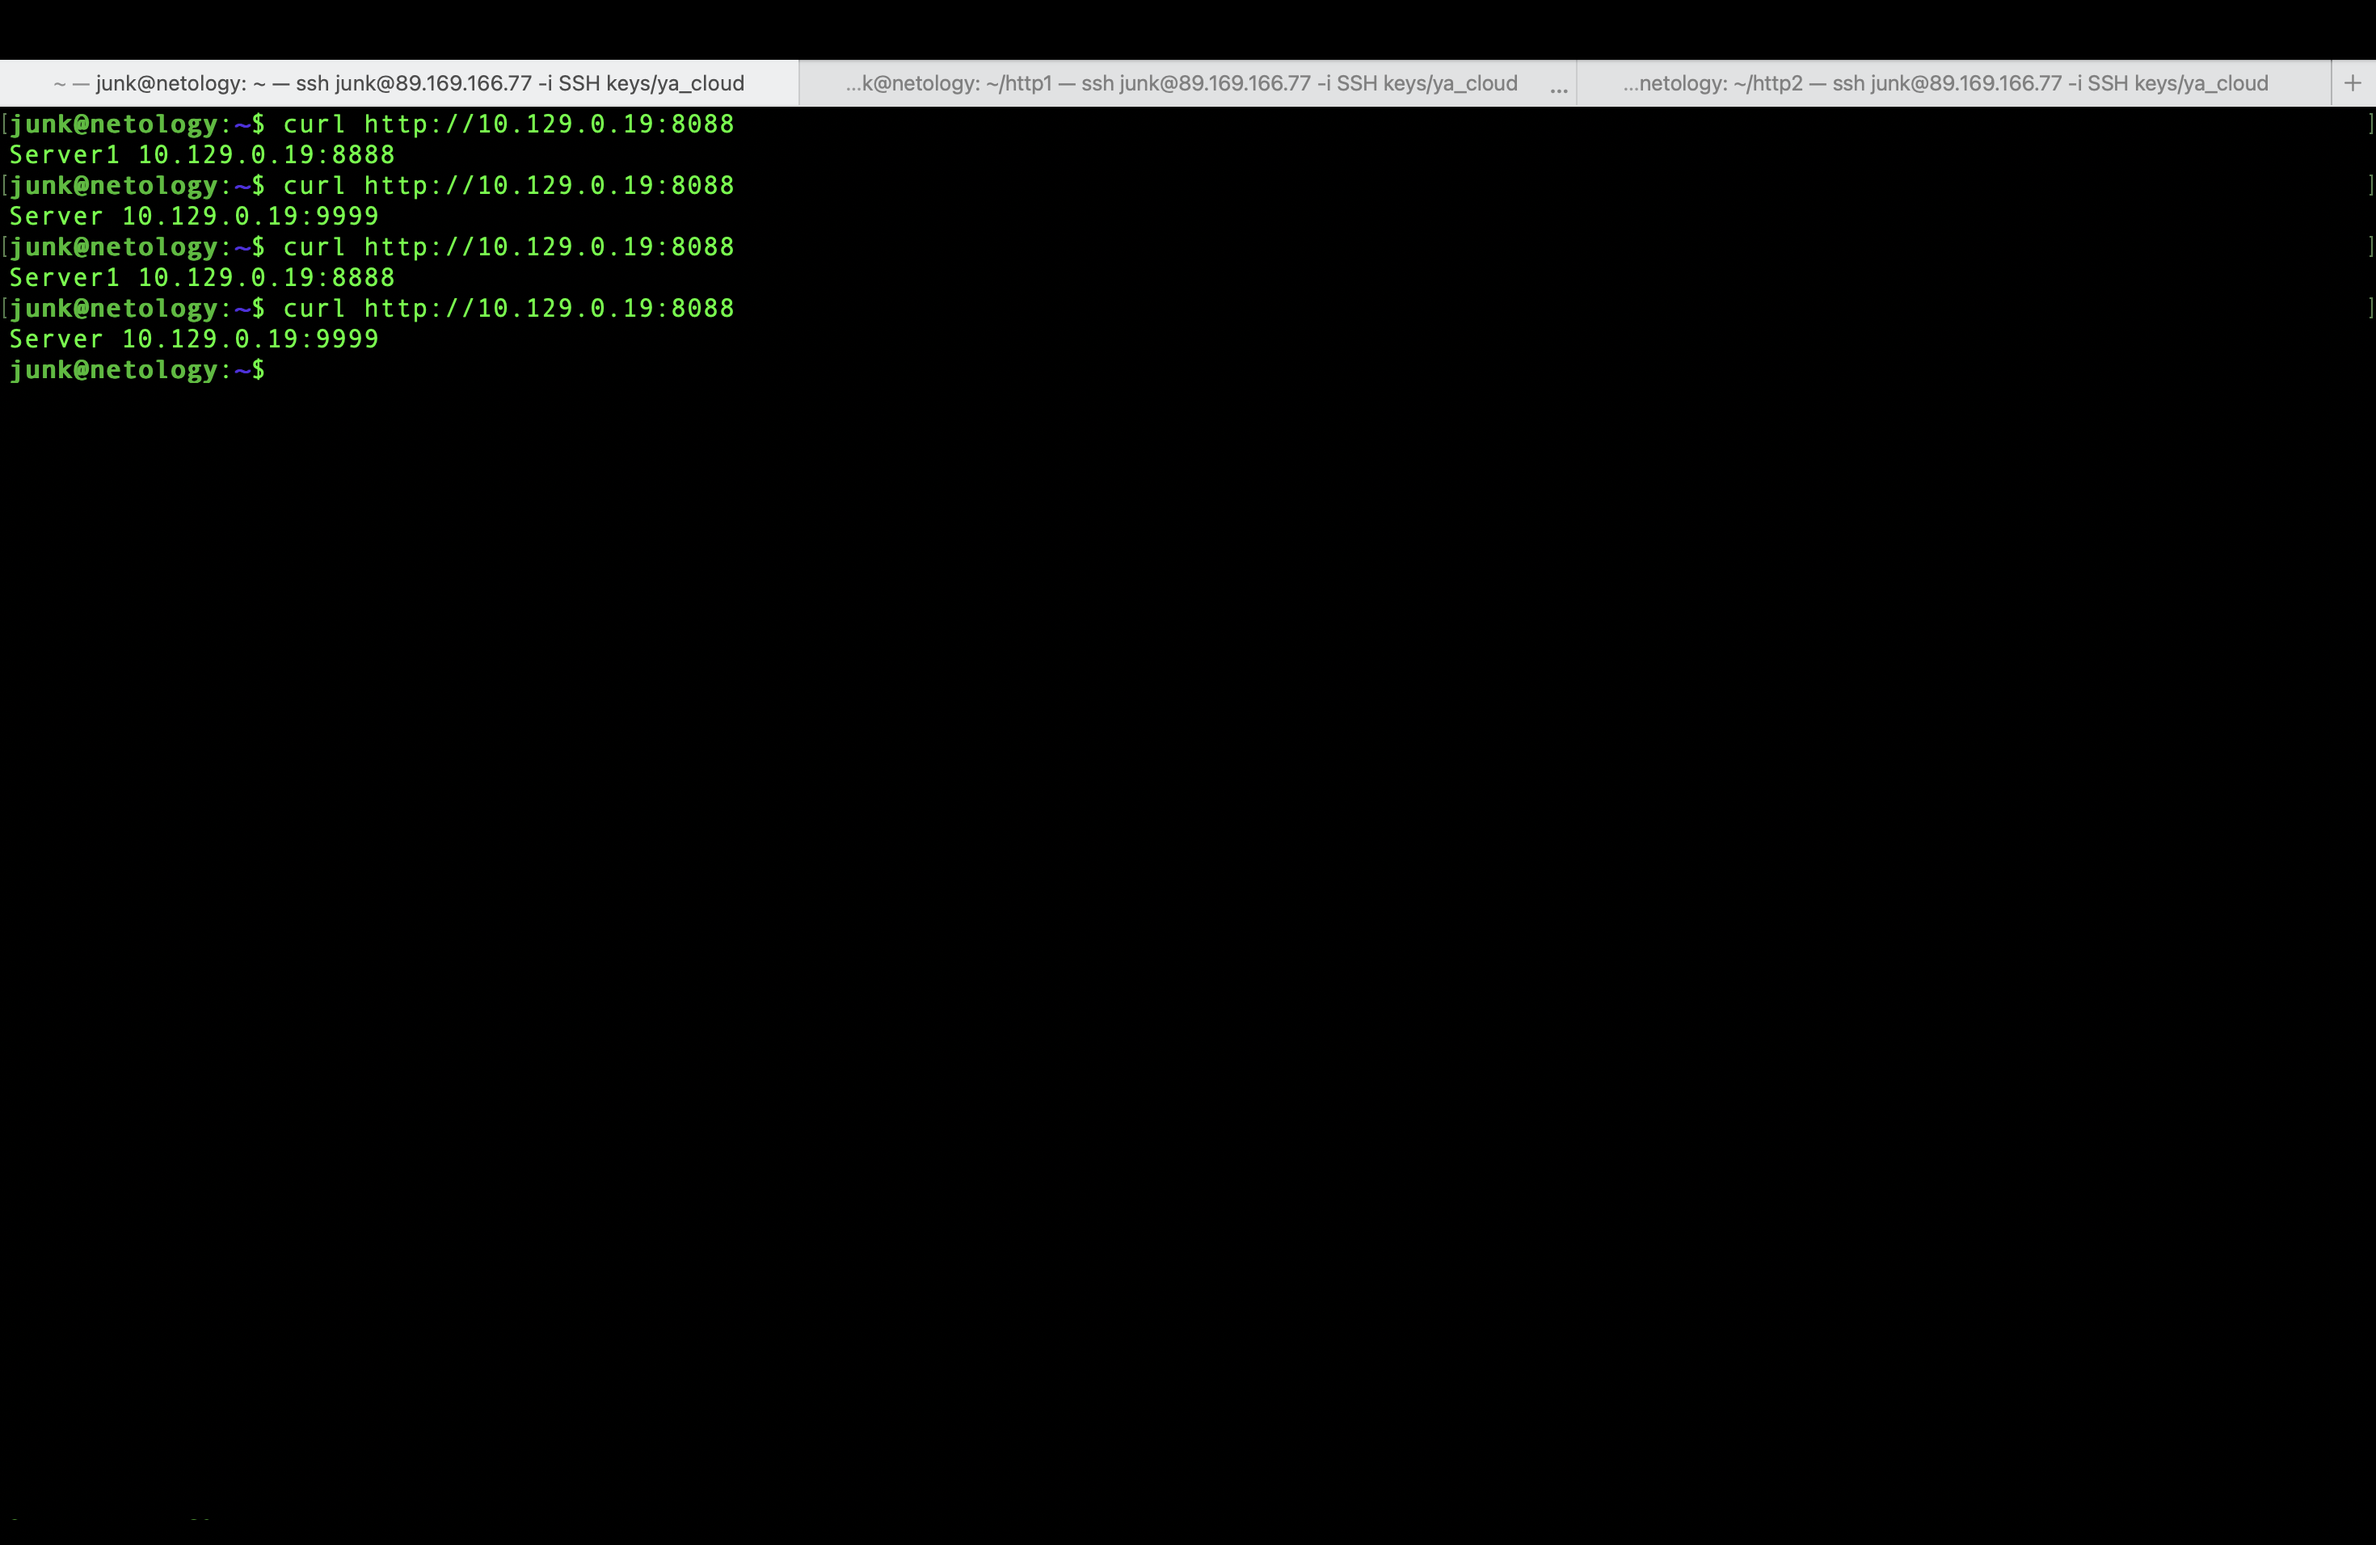
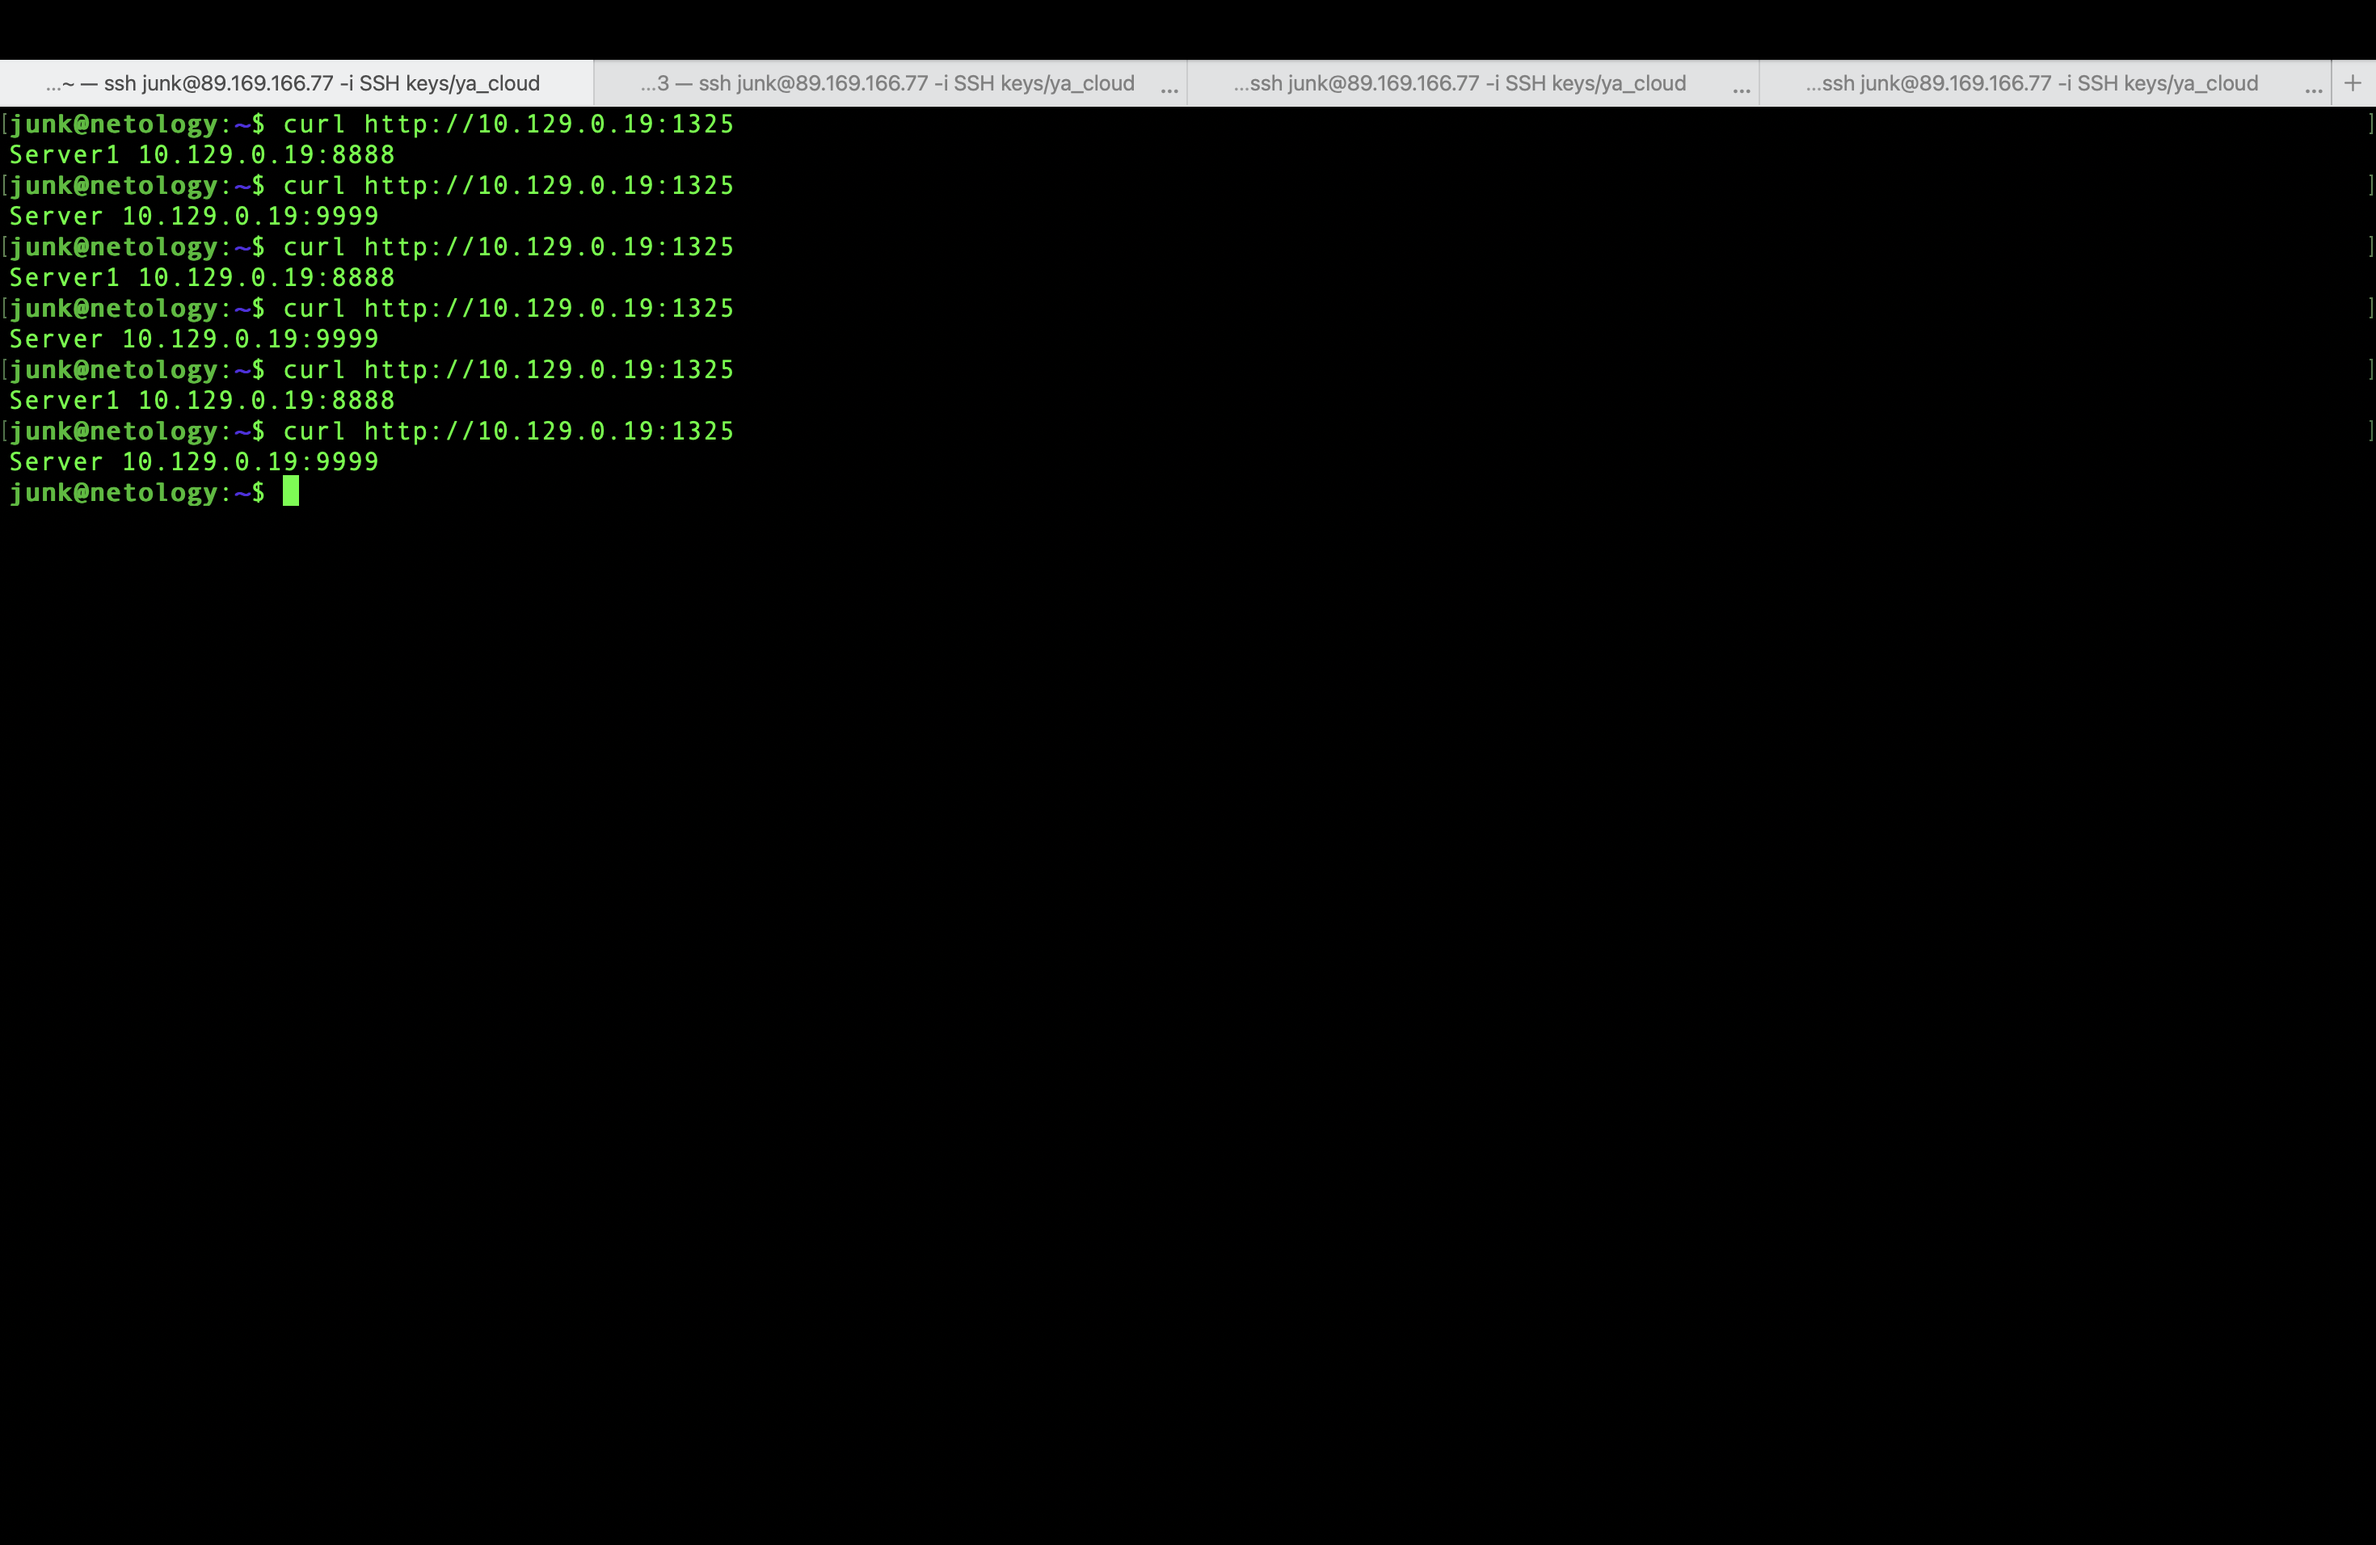
Корректировка заданий 1 и 2

Changed region(s): [[0.031, 0.0309, 0.9595, 0.1234], [0.0, 0.1543, 0.3095, 0.3394]]

diff --git a/README.md b/README.md
@@ -19,18 +19,12 @@ listen stats  # веб-страница со статистикой
         stats refresh           5s
         stats realm             Haproxy\ Statistics
 
-frontend example  # секция фронтенд
-        mode http
-        bind 10.129.0.19:8088
-        default_backend web_servers
+listen web_tcp
 
-backend web_servers    # секция бэкенд
-        mode http
-        balance roundrobin
-        option httpchk
-        http-check send meth GET uri /index.html
-        server s1 10.129.0.19:8888 check
-        server s2 10.129.0.19:9999 check
+        bind :1325
+
+        server s1 10.129.0.19:8888 check inter 3s
+        server s2 10.129.0.19:9999 check inter 3s
 ```
 
 ![roundrobin balancing](/img/screen1.png)
@@ -46,19 +40,33 @@ backend web_servers    # секция бэкенд
 - На проверку направьте конфигурационный файл haproxy, скриншоты, где видно перенаправление запросов на разные серверы при обращении к HAProxy c использованием домена example.local и без него.
 
 ```conf
+listen stats  # веб-страница со статистикой
+        bind                    :888
+        mode                    http
+        stats                   enable
+        stats uri               /stats
+        stats refresh           5s
+        stats realm             Haproxy\ Statistics
+
 frontend example  # секция фронтенд
         mode http
         bind 10.129.0.19:8088
-        acl ACL_example.com hdr(host) -i example.com
-        use_backend web_servers if ACL_example.com
+        default_backend web_servers_no_balance
+        acl ACL_example.local hdr(host) -i example.local
+        use_backend web_servers if ACL_example.local
+
+backend web_servers_no_balance
+        mode http
+        server s1 10.129.0.19:8888
 
 backend web_servers    # секция бэкенд
         mode http
         balance roundrobin
         option httpchk
         http-check send meth GET uri /index.html
-        server s1 10.129.0.19:8888 check
-        server s2 10.129.0.19:9999 check
+        server s1 10.129.0.19:8888 check weight 2
+        server s2 10.129.0.19:9999 check weight 3
+        server s3 10.129.0.19:6666 check weight 4
 ```
 
 ![examplecom balancing](/img/screen2.png)
@@ -68,14 +76,9 @@ backend web_servers    # секция бэкенд
 
 ### Задание 3
 
-`Приведите ответ в свободной форме........`
-
-1. `Заполните здесь этапы выполнения, если требуется ....`
-2. `Заполните здесь этапы выполнения, если требуется ....`
-3. `Заполните здесь этапы выполнения, если требуется ....`
-4. `Заполните здесь этапы выполнения, если требуется ....`
-5. `Заполните здесь этапы выполнения, если требуется ....`
-6. 
+- Настройте связку HAProxy + Nginx как было показано на лекции.
+- Настройте Nginx так, чтобы файлы .jpg выдавались самим Nginx (предварительно разместите несколько тестовых картинок в директории /var/www/), а остальные запросы переадресовывались на HAProxy, который в свою очередь переадресовывал их на два Simple Python server.
+- На проверку направьте конфигурационные файлы nginx, HAProxy, скриншоты с запросами jpg картинок и других файлов на Simple Python Server, демонстрирующие корректную настройку.
 
 ```
 Поле для вставки кода...
